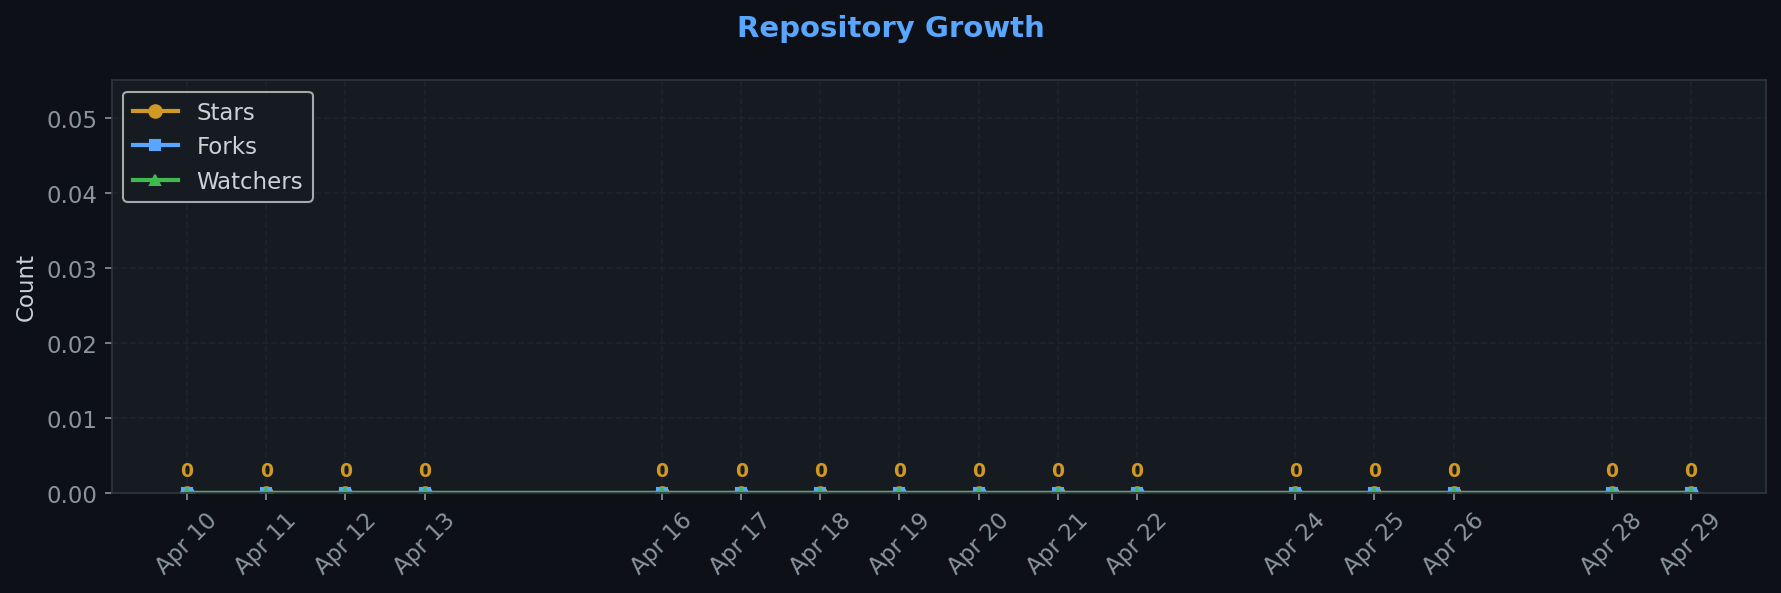
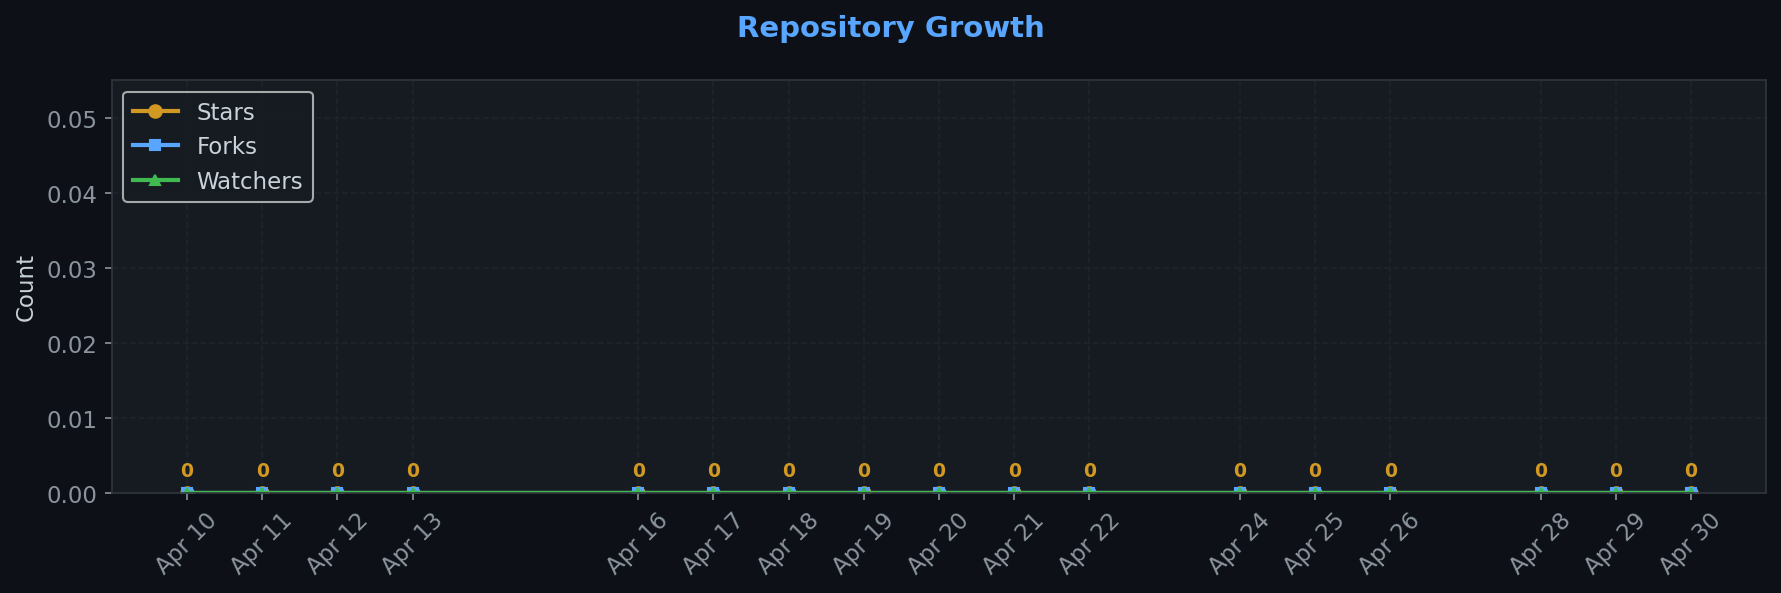
chore: Full traffic snapshot 2026-04-30_12:13

diff --git a/.github/traffic/SUMMARY.md b/.github/traffic/SUMMARY.md
@@ -1,7 +1,7 @@
 # Repository Traffic Dashboard
 
-**Last updated:** 2026-04-29T12:15:51Z
-**Days tracked:** 16 | **Download snapshots:** 23 (hourly)
+**Last updated:** 2026-04-30T12:13:32Z
+**Days tracked:** 17 | **Download snapshots:** 24 (hourly)
 
 ---
 
